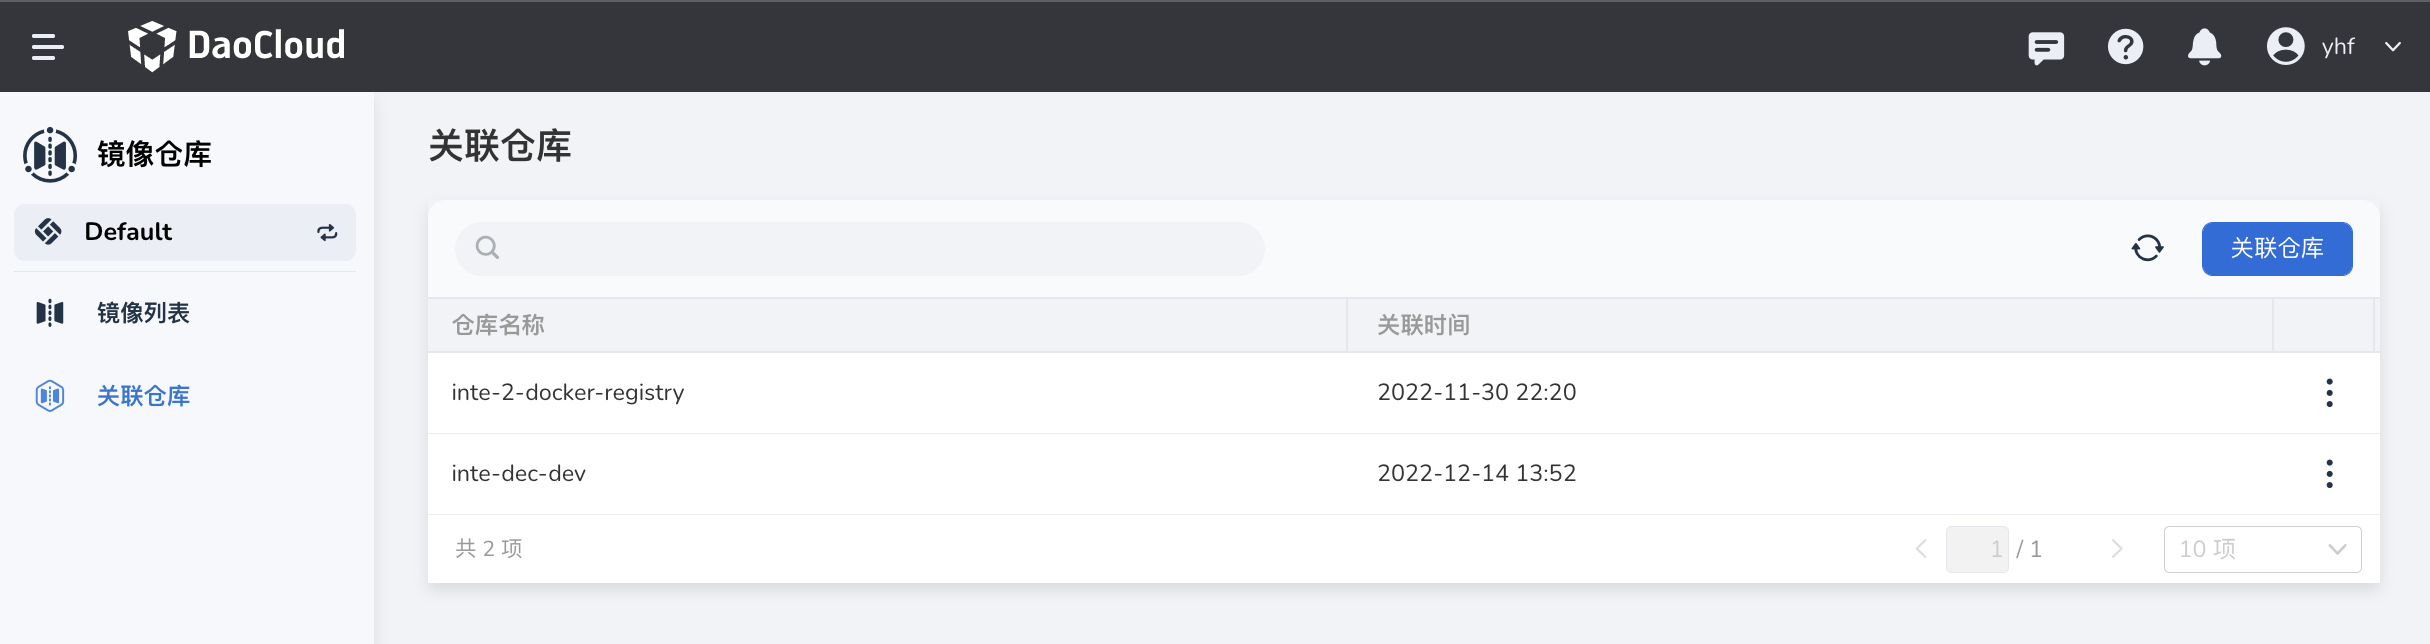
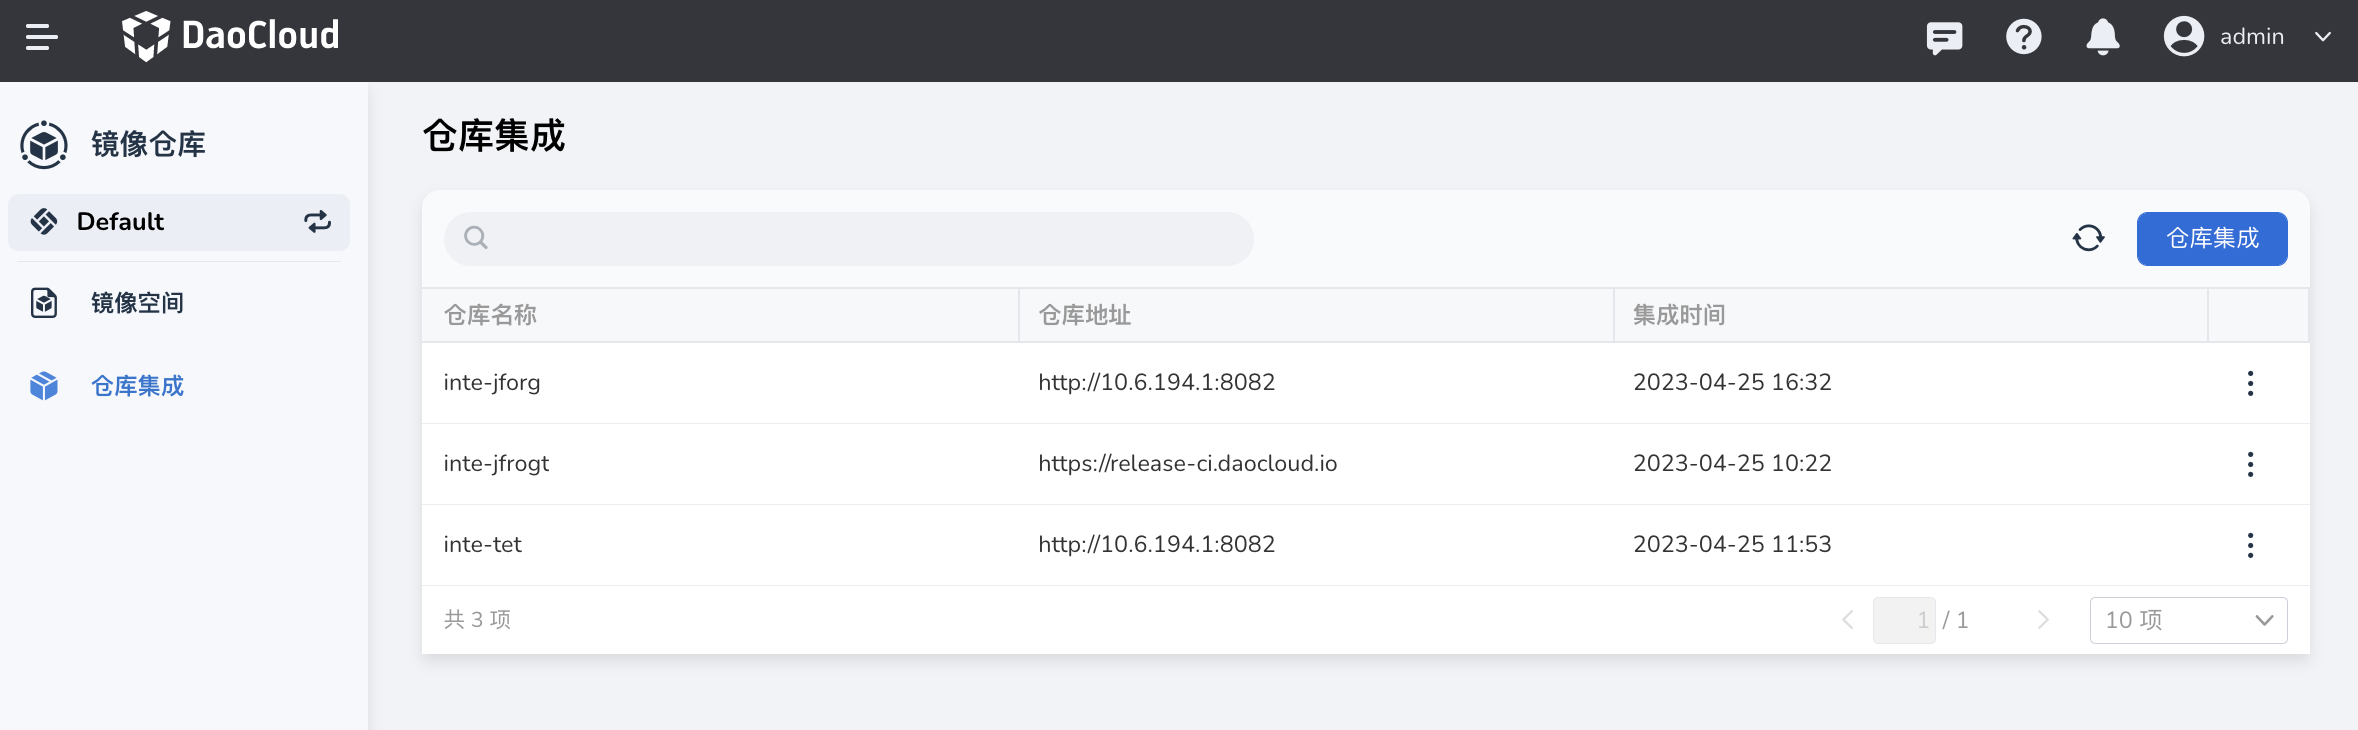
update kangaroo pages

diff --git a/docs/zh/docs/kangaroo/quickstart/registry-in-one.md b/docs/zh/docs/kangaroo/quickstart/registry-in-one.md
@@ -7,16 +7,16 @@ hide:
 
 如果您有一个或多个 Harbor 或 Docker 镜像仓库，完全可以用 DCE 5.0 镜像仓库进行统一管理。视操作员的角色权限，可以使用两种方式：
 
-- 关联仓库
-- 集成仓库
+- 仓库集成（工作空间）
+- 仓库集成（管理员）
 
-## 关联仓库
+## 仓库集成(工作空间)
 
-如果是 Workspace Admin，可以通过关联仓库功能，将现有镜像仓库关联到 DCE 平台，供工作空间的成员使用。简单的操作步骤如下：
+如果是 Workspace Admin，可以通过仓库集成(工作空间)功能，将现有镜像仓库关联到 DCE 平台，供工作空间的成员使用。简单的操作步骤如下：
 
-1. 以 Workspace Admin 角色登录，从左侧导航栏点击`关联仓库`，点击右上角的`关联仓库`按钮。
+1. 以 Workspace Admin 角色登录，从左侧导航栏点击`仓库集成(工作空间)`，点击右上角的`仓库集成`按钮。
 
-    ![关联仓库](../images/relate02.png)
+    ![仓库集成(工作空间)](../images/relate02.png)
 
 1. 填写表单信息后点击`确定`。
 
@@ -25,20 +25,21 @@ hide:
     !!! note
 
         1. Docker Registry 镜像仓库若未设置密码可不填写，Harbor 仓库必须填写用户名/密码。
-        1. 有关实际操作演示，请参阅[关联仓库视频演示](../../videos/kangaroo.md)。
+        1. 有关实际操作演示，请参阅[仓库集成视频演示](../../videos/kangaroo.md)。
 
-## 集成仓库
+## 仓库集成(管理员)
 
 如果是 Admin（平台管理员），还可以通过仓库集成功能，将现有镜像仓库集成到 DCE 平台。
-仓库集成是集中管理平台镜像仓库的入口，平台管理员可以通过将镜像空间与工作空间绑定的方式，将某个私有镜像空间分配给一个或者多个工作空间（工作空间下的命名空间）使用。或者将镜像空间设置为公开，供平台所有命名空间使用。
+仓库集成是集中管理平台镜像仓库的入口，平台管理员可以通过将镜像空间与工作空间绑定的方式，
+将某个私有镜像空间分配给一个或者多个工作空间（工作空间下的命名空间）使用。或者将镜像空间设置为公开，供平台所有命名空间使用。
 
-1. 以 Admin 角色登录，在左侧导航栏点击`仓库集成`。
+1. 以 Admin 角色登录，在左侧导航栏点击`仓库集成(管理员)`。
 
-    ![仓库集成](../images/interg01.jpg)
+    ![仓库集成](../images/interg01.png)
 
 1. 点击右上角的`仓库集成`按钮。
 
-    ![仓库集成](../images/interg02.jpg)
+    ![仓库集成](../images/interg02.png)
 
 1. 选择仓库类型，填写集成名称、仓库地址、用户名和密码后点击`确定`。
 

diff --git a/docs/zh/docs/kangaroo/quickstart/ws-admin-registry.md b/docs/zh/docs/kangaroo/quickstart/ws-admin-registry.md
@@ -5,7 +5,8 @@ hide:
 
 # Workspace Admin 快速使用镜像仓库为工作空间服务
 
-在 DCE 5.0 中，Workspace Admin 能够通过关联仓库方式关联 Harbor 和 Docker Registry 两种外部镜像仓库。关联后工作空间成员能够在镜像列表中看到关联仓库的所有镜像，以及在工作空间下的命名空间中部署应用时能够通过镜像选择器选择该仓库中的镜像进行部署。
+在 DCE 5.0 中，Workspace Admin 能够通过仓库集成(工作空间)方式集成 Harbor 和 Docker Registry 两种外部镜像仓库。
+集成后工作空间成员能够在镜像列表中看到仓库集成(工作空间)的所有镜像，以及在工作空间下的命名空间中部署应用时能够通过镜像选择器选择该仓库中的镜像进行部署。
 
 假设您已经创建了一个外部 Harbor 或者 Docker Registry 镜像仓库，按照以下步骤可以将外部 Harbor 或者 Docker Registry 共享给工作空间成员使用。
 
@@ -19,7 +20,7 @@ hide:
 ```mermaid
 graph TB
 
-associate[关联仓库] --> push[推送镜像] --> deploy[部署应用]
+associate[仓库集成] --> push[推送镜像] --> deploy[部署应用]
 
 classDef plain fill:#ddd,stroke:#fff,stroke-width:1px,color:#000;
 classDef k8s fill:#326ce5,stroke:#fff,stroke-width:1px,color:#fff;

diff --git a/docs/zh/docs/kangaroo/related-registry.md b/docs/zh/docs/kangaroo/related-registry.md
@@ -1,6 +1,6 @@
-# 关联仓库
+# 仓库集成(工作空间)
 
-关联仓库是针对工作空间提供的便捷接入仓库功能。
+仓库集成(工作空间)是针对工作空间提供的便捷接入仓库功能。
 工作空间管理员（Workspace Admin）可根据需要为该工作空间灵活接入镜像仓库，供工作空间成员使用。
 接入后，成员在工作空间下的命名空间部署应用时可通过`选择镜像`按钮一键拉取工作空间下所有公开和私有的镜像，实现快速部署应用。
 
@@ -20,9 +20,9 @@
 
     ![镜像仓库](images/related01.png)
 
-1. 点击右上角的`关联仓库`按钮。
+1. 点击右上角的`仓库集成(工作空间)`按钮。
 
-    ![关联仓库](images/relate02.png)
+    ![仓库集成(工作空间)](images/relate02.png)
 
 1. 填写表单信息后点击`确定`。
 
@@ -31,4 +31,4 @@
     !!! note
 
         1. Docker Registry 镜像仓库若未设置密码可不填写，Harbor 仓库必须填写用户名/密码。
-        1. 有关实际操作演示，请参阅[关联仓库视频演示](../videos/kangaroo.md)
+        1. 有关实际操作演示，请参阅[仓库集成(工作空间)视频演示](../videos/kangaroo.md)

diff --git a/docs/zh/docs/kangaroo/integrate/integrate.md b/docs/zh/docs/kangaroo/integrate/integrate.md
@@ -1,6 +1,6 @@
-# 仓库集成
+# 仓库集成(管理员)
 
-仓库集成是集中管理平台镜像仓库的入口，既支持集成外部镜像仓库，如 Harbor Registry、Docker Registry；
+仓库集成(管理员)是集中管理平台镜像仓库的入口，既支持集成外部镜像仓库，如 Harbor Registry、Docker Registry；
 又能够自动集成平台创建的托管 Harbor。仓库集成后，平台管理员可以通过将镜像空间与工作空间绑定的方式，将某个私有镜像空间分配给一个或者多个工作空间（工作空间下的命名空间）。
 或者将镜像空间设置为公开，供平台所有命名空间使用。
 
@@ -23,7 +23,7 @@
 
 可以参阅[视频教程](../../videos/kangaroo.md#_3)熟悉以下操作步骤：
 
-1. 使用具有 Admin 角色的用户登录 Web 控制台，从左侧导航栏点击`镜像仓库` -> `仓库集成`。
+1. 使用具有 Admin 角色的用户登录 Web 控制台，从左侧导航栏点击`镜像仓库` -> `仓库集成(工作空间)`。
 
     ![仓库集成](../images/integrated01.png)
 

diff --git a/docs/zh/docs/kangaroo/imagelist.md b/docs/zh/docs/kangaroo/imagelist.md
@@ -25,5 +25,5 @@ hide:
 
 - 安全可靠：通过镜像空间与工作空间绑定的方式实现细粒度的镜像分配，确保私有镜像只能被指定的工作空间拉取。
 - 简单便捷：平台管理员创建托管 Harbor 或集成其他仓库后，若希望共享给所有工作空间及命名空间使用，只需要将镜像仓库公开即可。
-- 灵活接入：除了平台级的仓库集成能力，在每个工作空间下还提供了关联仓库功能。关联后，该镜像仓库仅供该工作空间使用。
+- 灵活接入：除了平台级的仓库集成能力，在每个工作空间下还提供了仓库集成功能。集成后，该镜像仓库仅供该工作空间使用。
 - 全局联动：应用工作台和容器管理针对镜像仓库提供了`镜像选择器`功能，在部署应用时可通过`选择镜像`按钮一键获取所有可见的镜像，快速完成部署。

diff --git a/docs/zh/docs/kangaroo/integrate/bind-to-ws.md b/docs/zh/docs/kangaroo/integrate/bind-to-ws.md
@@ -48,10 +48,10 @@
 
     ![镜像仓库](../images/bind-space-to-ws02.png)
 
-2. 将镜像空间分配给工作空间使用，与在工作空间下关联仓库有什么区别？
+2. 将镜像空间分配给工作空间使用，与在工作空间下集成仓库有什么区别？
 
     平台管理员 Admin 可以统一管理，批量将一个镜像空间分配给多个工作空间使用，而无需分别关联。
 
-    工作空间管理员 Workspace Admin 可以根据需要自己关联外部镜像仓库给成员使用，而无需全部依赖于平台管理员，使用起来更为灵活。
+    工作空间管理员 Workspace Admin 可以根据需要自己集成外部镜像仓库给成员使用，而无需全部依赖于平台管理员，使用起来更为灵活。
 
 下一步：[部署应用](../../amamba/user-guide/wizard/create-app-git.md)

diff --git a/docs/zh/docs/kangaroo/faq.md b/docs/zh/docs/kangaroo/faq.md
@@ -93,9 +93,9 @@ status:
     type: HealthCheckFail
 ```
 
-## 仓库集成、关联仓库后，在镜像列表页面实例中不可查看
+## 仓库集成后，在镜像列表页面实例中不可查看
 
-请确认仓库集成或者关联仓库的资源是否健康，如果不健康是不会在镜像列表页面的实例列表中显示的。
+请确认仓库集成的资源是否健康，如果不健康是不会在镜像列表页面的实例列表中显示的。
 确认方式请参考[仓库集成后不健康的确认方法](#_2)。
 
 ## 在 `Kpanda` 镜像选择器中选中一个私有 `Project` 镜像但部署时提示镜像拉取失败

diff --git a/docs/zh/docs/videos/kangaroo.md b/docs/zh/docs/videos/kangaroo.md
@@ -4,9 +4,9 @@
 
 > 若视频显示有问题，请刷新页面，或尝试清除浏览器缓存。
 
-## 关联仓库
+## 仓库集成
 
-参阅[关联仓库](../kangaroo/related-registry.md)文档页面。
+参阅[仓库集成](../kangaroo/related-registry.md)文档页面。
 
 <div class="responsive-video-container">
 <video controls src="https://harbor-test2.cn-sh2.ufileos.com/docs/videos/join-registry.mp4" preload="metadata" poster="../images/kangaroo-repo.png"></video>
